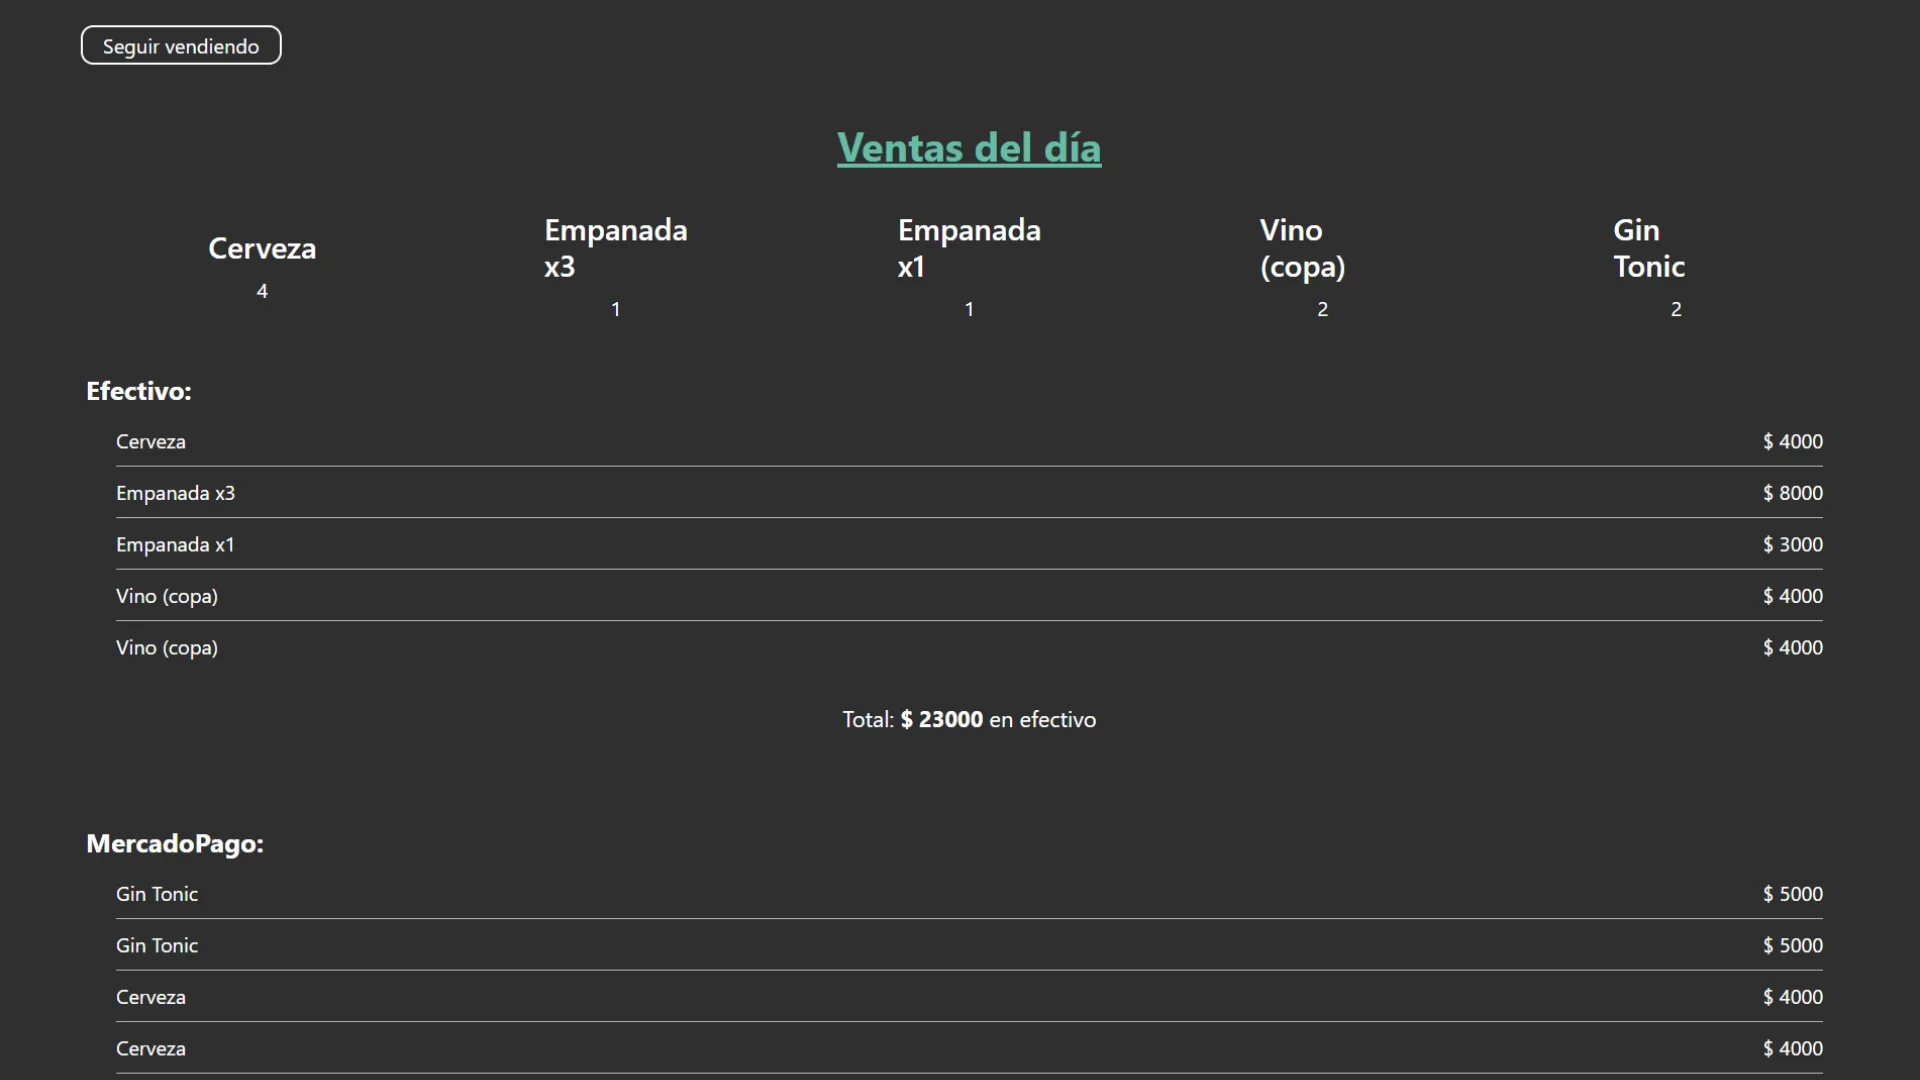
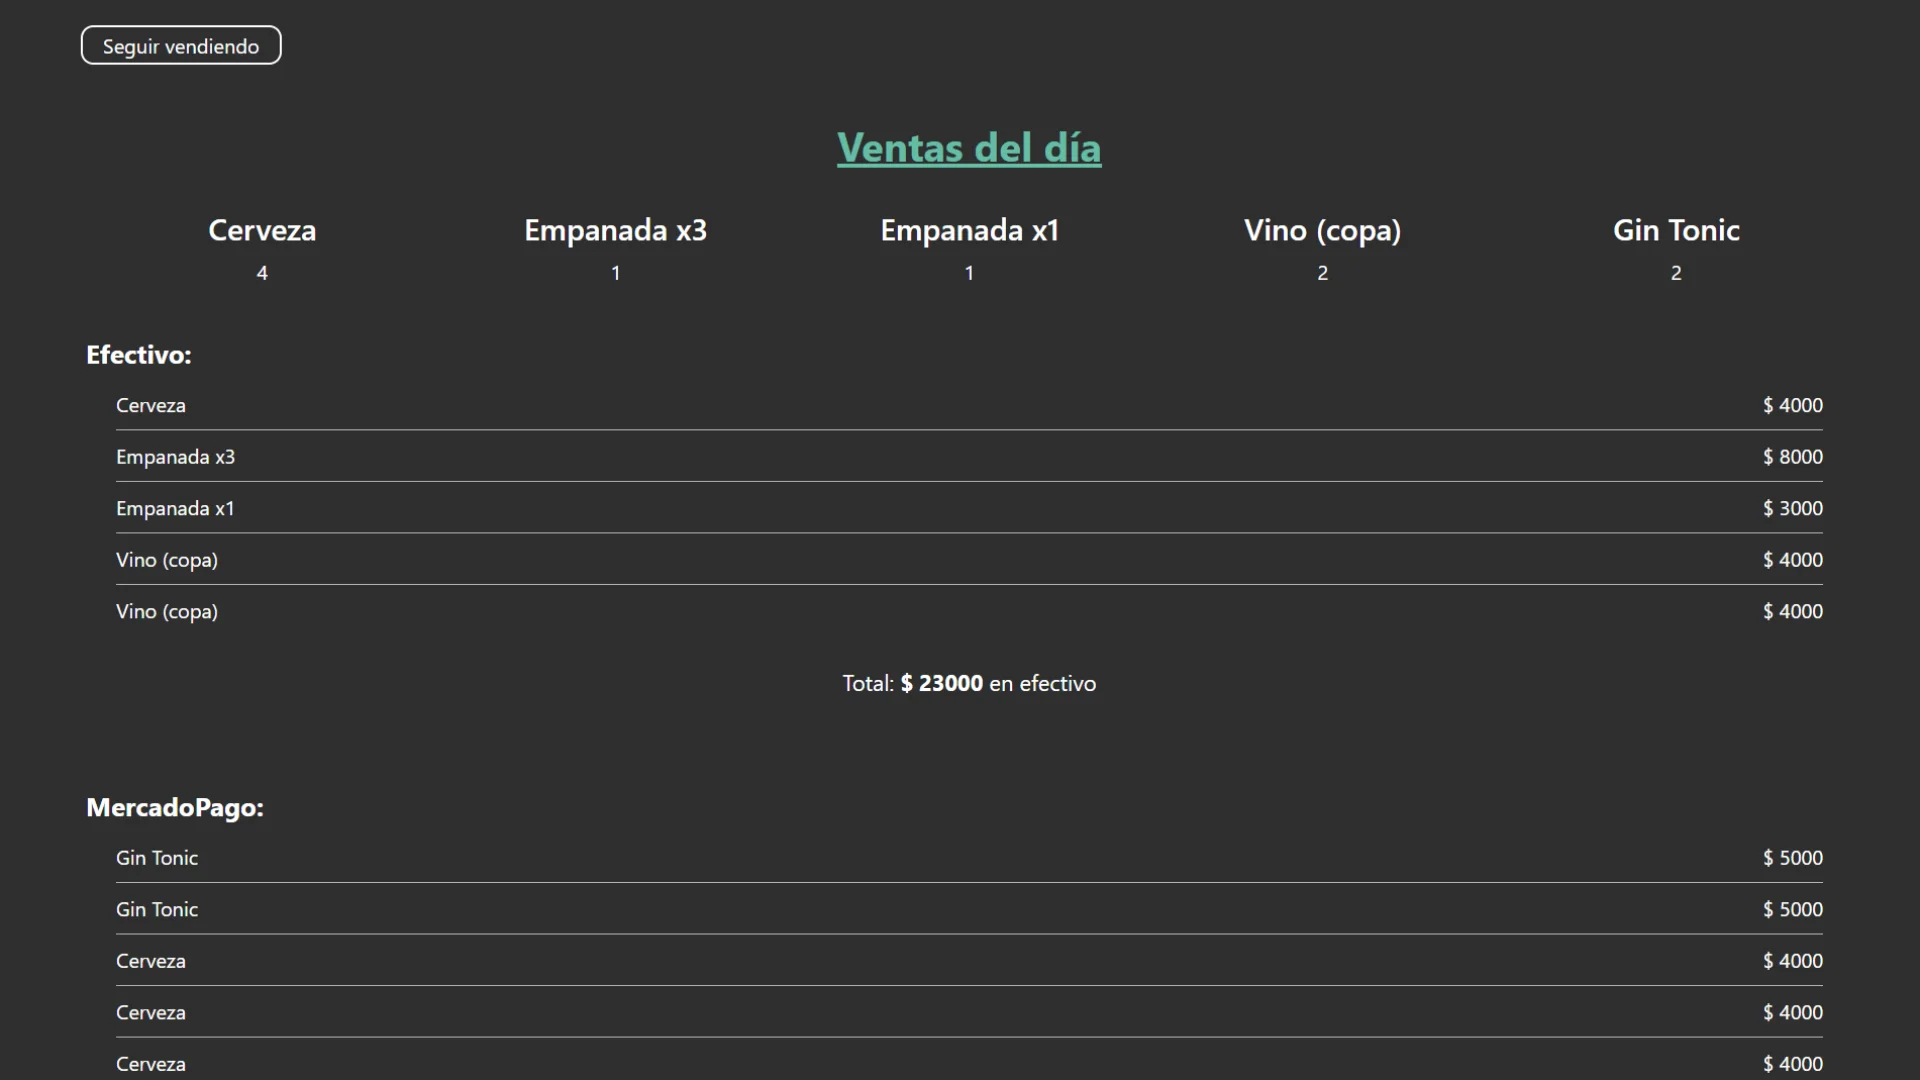
Responsive design fixes

diff --git a/src/components/portfolio/projects/BreakHouse.vue b/src/components/portfolio/projects/BreakHouse.vue
@@ -1,14 +1,59 @@
 <script>
 import { createHorizontalScroll } from '@/utils/horizontalScroll'
 
+import desktop1 from '@/img/projects/demos/break-house/break-house-1.webp'
+import desktop2 from '@/img/projects/demos/break-house/break-house-2.webp'
+import desktop3 from '@/img/projects/demos/break-house/break-house-3.webp'
+import desktop4 from '@/img/projects/demos/break-house/break-house-4.webp'
+import mobile1 from '@/img/projects/demos/break-house/mobile/break-house-mobile-1.webp'
+import mobile2 from '@/img/projects/demos/break-house/mobile/break-house-mobile-2.webp'
+import mobile3 from '@/img/projects/demos/break-house/mobile/break-house-mobile-3.webp'
+import mobile4 from '@/img/projects/demos/break-house/mobile/break-house-mobile-4.webp'
+
+const MOBILE_QUERY = '(max-width: 767.98px)'
+
 export default {
     name: 'BreakHouse',
+    data() {
+        return {
+            isMobile: window.matchMedia(MOBILE_QUERY).matches,
+            desktopImages: [
+                { src: desktop1, alt: 'Break House 1' },
+                { src: desktop2, alt: 'Break House 2' },
+                { src: desktop3, alt: 'Break House 3' },
+                { src: desktop4, alt: 'Break House 4' },
+            ],
+            mobileImages: [
+                { src: mobile1, alt: 'Break House 1' },
+                { src: mobile2, alt: 'Break House 2' },
+                { src: mobile3, alt: 'Break House 3' },
+                { src: mobile4, alt: 'Break House 4' },
+            ],
+        }
+    },
+    computed: {
+        demoImages() {
+            return this.isMobile ? this.mobileImages : this.desktopImages
+        },
+    },
     async mounted() {
-        createHorizontalScroll(this.$el)
+        this.horizontalScroll = await createHorizontalScroll(this.$el)
+        this.mediaQuery = window.matchMedia(MOBILE_QUERY)
+        this.mediaQuery.addEventListener('change', this.handleBreakpointChange)
     },
     beforeUnmount() {
         this.horizontalScroll?.tween.kill()
         this.horizontalScroll?.trigger.kill()
+        this.mediaQuery?.removeEventListener('change', this.handleBreakpointChange)
+    },
+    methods: {
+        async handleBreakpointChange(event) {
+            this.isMobile = event.matches
+            this.horizontalScroll?.tween.kill()
+            this.horizontalScroll?.trigger.kill()
+            await this.$nextTick()
+            this.horizontalScroll = await createHorizontalScroll(this.$el)
+        },
     },
 }
 </script>
@@ -17,12 +62,14 @@ export default {
     <div>
 
         <section>
-            <div class="d-flex align-items-center gap-2 gap-lg-4 mb-4 title-container">
-                <div>
-                    <img class="icon-img" src="@/img/projects/logo-break_house.svg" alt="Ícono de Break House">
+            <div class="row align-items-center gap-4 my-4 title-container">
+                <div class="col-12 col-md-4 d-flex align-items-center justify-content-center gap-2 gap-lg-4">
+                    <div>
+                        <img class="icon-img" src="@/img/projects/logo-break_house.svg" alt="Ícono de Break House">
+                    </div>
+                    <h2 class="mb-0">Break House</h2>
                 </div>
-                <h2>Break House</h2>
-                <div class="d-flex justify-content-center ps-0 ms-0 ps-lg-4 ms-lg-4">
+                <div class="col-12 col-sm-4 d-flex justify-content-center ps-0 ms-0 ps-lg-4 ms-lg-4">
                     <a class="text-center visit-website-button" href="https://final-ah-f76b6.web.app"
                         target="_blank">Sitio
                         web</a>
@@ -45,14 +92,8 @@ export default {
                 </div>
                 <div class="demo-images-container">
                     <div class="demo-images">
-                        <img class="img-fluid rounded-xl" src="@/img/projects/demos/break-house/break-house-1.webp"
-                            alt="Break House 1">
-                        <img class="img-fluid rounded-xl" src="@/img/projects/demos/break-house/break-house-2.webp"
-                            alt="Break House 2">
-                        <img class="img-fluid rounded-xl" src="@/img/projects/demos/break-house/break-house-3.webp"
-                            alt="Break House 3">
-                        <img class="img-fluid rounded-xl" src="@/img/projects/demos/break-house/break-house-4.webp"
-                            alt="Break House 4">
+                        <img v-for="(image, index) in demoImages" :key="index" class="img img-fluid rounded-xl"
+                            :src="image.src" :alt="image.alt">
                     </div>
                 </div>
                 <div class="w-100 d-flex justify-content-center mt-4">
@@ -94,11 +135,10 @@ section {
     flex-wrap: nowrap;
     height: fit-content;
     gap: 2em;
+    align-items: center;
 }
 
 .demo-images img {
-    box-shadow: 0px 0px 2px 2px rgba(0, 0, 0, 0.2);
-    border-radius: 1em;
     width: 90%;
     max-width: 100vw;
     max-height: 100vh;

diff --git a/src/components/portfolio/projects/BosqueSentidos.vue b/src/components/portfolio/projects/BosqueSentidos.vue
@@ -1,14 +1,59 @@
 <script>
 import { createHorizontalScroll } from '@/utils/horizontalScroll'
 
+import desktop1 from '@/img/projects/demos/bosque-sentidos/bosque-sentidos-1.webp'
+import desktop2 from '@/img/projects/demos/bosque-sentidos/bosque-sentidos-2.webp'
+import desktop3 from '@/img/projects/demos/bosque-sentidos/bosque-sentidos-3.webp'
+import desktop4 from '@/img/projects/demos/bosque-sentidos/bosque-sentidos-4.webp'
+import mobile1 from '@/img/projects/demos/bosque-sentidos/mobile/bosque-sentidos-mobile-1.webp'
+import mobile2 from '@/img/projects/demos/bosque-sentidos/mobile/bosque-sentidos-mobile-2.webp'
+import mobile3 from '@/img/projects/demos/bosque-sentidos/mobile/bosque-sentidos-mobile-3.webp'
+import mobile4 from '@/img/projects/demos/bosque-sentidos/mobile/bosque-sentidos-mobile-4.webp'
+
+const MOBILE_QUERY = '(max-width: 767.98px)'
+
 export default {
     name: 'BosqueSentidos',
+    data() {
+        return {
+            isMobile: window.matchMedia(MOBILE_QUERY).matches,
+            desktopImages: [
+                { src: desktop1, alt: 'Bosque de los Sentidos 1' },
+                { src: desktop2, alt: 'Bosque de los Sentidos 2' },
+                { src: desktop3, alt: 'Bosque de los Sentidos 3' },
+                { src: desktop4, alt: 'Bosque de los Sentidos 4' },
+            ],
+            mobileImages: [
+                { src: mobile1, alt: 'Bosque de los Sentidos 1' },
+                { src: mobile2, alt: 'Bosque de los Sentidos 2' },
+                { src: mobile3, alt: 'Bosque de los Sentidos 3' },
+                { src: mobile4, alt: 'Bosque de los Sentidos 4' },
+            ],
+        }
+    },
+    computed: {
+        demoImages() {
+            return this.isMobile ? this.mobileImages : this.desktopImages
+        },
+    },
     async mounted() {
-        createHorizontalScroll(this.$el)
+        this.horizontalScroll = await createHorizontalScroll(this.$el)
+        this.mediaQuery = window.matchMedia(MOBILE_QUERY)
+        this.mediaQuery.addEventListener('change', this.handleBreakpointChange)
     },
     beforeUnmount() {
         this.horizontalScroll?.tween.kill()
         this.horizontalScroll?.trigger.kill()
+        this.mediaQuery?.removeEventListener('change', this.handleBreakpointChange)
+    },
+    methods: {
+        async handleBreakpointChange(event) {
+            this.isMobile = event.matches
+            this.horizontalScroll?.tween.kill()
+            this.horizontalScroll?.trigger.kill()
+            await this.$nextTick()
+            this.horizontalScroll = await createHorizontalScroll(this.$el)
+        },
     },
 }
 </script>
@@ -16,12 +61,12 @@ export default {
 <template>
     <div>
         <section>
-            <div class="d-flex align-items-center gap-2 gap-lg-4 mb-4">
+            <div class="d-flex align-items-center gap-2 gap-lg-4 my-4">
                 <div>
                     <img class="icon-img" src="@/img/projects/logo-bosque_de_los_sentidos.svg"
                         alt="Ícono de Bosque de los Sentidos">
                 </div>
-                <h2>Bosque de los Sentidos</h2>
+                <h2 class="mb-0">Bosque de los Sentidos</h2>
             </div>
             <div>
                 <h3>Ludoteca de juegos inclusivos.</h3>
@@ -40,18 +85,8 @@ export default {
                 </div>
                 <div class="demo-images-container">
                     <div class="demo-images">
-                        <img class="img-fluid rounded-xl"
-                            src="@/img/projects/demos/bosque-sentidos/bosque-sentidos-1.webp"
-                            alt="Bosque de los Sentidos 1">
-                        <img class="img-fluid rounded-xl"
-                            src="@/img/projects/demos/bosque-sentidos/bosque-sentidos-2.webp"
-                            alt="Bosque de los Sentidos 2">
-                        <img class="img-fluid rounded-xl"
-                            src="@/img/projects/demos/bosque-sentidos/bosque-sentidos-3.webp"
-                            alt="Bosque de los Sentidos 3">
-                        <img class="img-fluid rounded-xl"
-                            src="@/img/projects/demos/bosque-sentidos/bosque-sentidos-4.webp"
-                            alt="Bosque de los Sentidos 4">
+                        <img v-for="(image, index) in demoImages" :key="index" class="img-fluid rounded-xl"
+                            :src="image.src" :alt="image.alt">
                     </div>
                 </div>
                 <p class="text-center mx-auto"><em>Es un proyecto en desarrollo, la integración de MercadoPago
@@ -99,8 +134,6 @@ section {
 }
 
 .demo-images img {
-    box-shadow: 0px 0px 2px 2px rgba(0, 0, 0, 0.2);
-    border-radius: 1em;
     width: 90%;
     max-width: 100vw;
     max-height: 100vh;

diff --git a/src/components/AppFooter.vue b/src/components/AppFooter.vue
@@ -6,8 +6,8 @@ export default {
 
 <template>
     <footer>
-        <div class="d-flex w-100 justify-content-around">
-            <div class="d-flex flex-column align-items-start my-4">
+        <div class="row justify-content-around">
+            <div class="col-12 col-md-4 col-lg-4 d-flex flex-column align-items-center my-4">
                 <h4>
                     Redes Sociales
                 </h4>
@@ -25,7 +25,7 @@ export default {
                     </li>
                 </ul>
             </div>
-            <div class="d-flex flex-column align-items-start my-4">
+            <div class="col-12 col-md-4 col-lg-4 d-flex flex-column align-items-center my-4">
                 <h4>Sitios Web</h4>
                 <ul class="list-unstyled">
                     <li><a href="https://esquina-cultural-production-l2ojal.laravel.cloud" class="link-footer"
@@ -40,7 +40,7 @@ export default {
                     </li>
                 </ul>
             </div>
-            <div class="d-flex flex-column align-items-start my-4">
+            <div class="col-12 col-md-4 col-lg-4 d-flex flex-column align-items-center my-4">
                 <h4>Repositorios</h4>
                 <ul class="list-unstyled">
                     <li><a href="https://github.com/chonachoadm/esquina-cultural" class="link-footer" target="_blank"
@@ -56,6 +56,8 @@ export default {
                     <li><a href="https://github.com/chonachoadm/comunidad_cocinera" class="link-footer" target="_blank"
                             rel="noopener noreferrer">Comunidad
                             Cocinera</a></li>
+                    <li><a href="https://github.com/chonachoadm/break-house" class="link-footer" target="_blank"
+                            rel="noopener noreferrer">Break House</a></li>
                 </ul>
             </div>
         </div>

diff --git a/src/components/portfolio/projects/EsquinaCultural.vue b/src/components/portfolio/projects/EsquinaCultural.vue
@@ -61,13 +61,15 @@ export default {
 <template>
     <div>
         <section>
-            <div class="d-flex align-items-center gap-2 gap-lg-4 mb-4">
-                <div>
-                    <img class="icon-img" src="@/img/projects/logo-esquina_cultural.svg"
-                        alt="Ícono de Esquina Cultural">
+            <div class="row align-items-center gap-4 my-4 title-container">
+                <div class="col-12 col-md-4 d-flex align-items-center justify-content-center gap-2 gap-lg-4">
+                    <div>
+                        <img class="icon-img" src="@/img/projects/logo-esquina_cultural.svg"
+                            alt="Ícono de Esquina Cultural">
+                    </div>
+                    <h2 class="mb-0">Esquina Cultural</h2>
                 </div>
-                <h2>Esquina Cultural</h2>
-                <div class="d-flex justify-content-center ps-0 ms-0 ps-lg-4 ms-lg-4">
+                <div class="col-12 col-sm-4 d-flex justify-content-center ps-0 ms-0 ps-lg-4 ms-lg-4">
                     <a class="text-center visit-website-button"
                         href="https://esquina-cultural-production-l2ojal.laravel.cloud" target="_blank">Sitio web</a>
                 </div>

diff --git a/src/components/portfolio/projects/CiaJeruncio.vue b/src/components/portfolio/projects/CiaJeruncio.vue
@@ -61,12 +61,14 @@ export default {
 <template>
     <div>
         <section>
-            <div class="d-flex align-items-center gap-2 gap-lg-4 mb-4">
-                <div>
-                    <img class="icon-img" src="@/img/projects/logo-cia_jeruncio.svg" alt="Ícono de Cía Jeruncio">
+            <div class="row align-items-center gap-4 my-4 title-container">
+                <div class="col-12 col-md-4 d-flex align-items-center justify-content-center gap-2 gap-lg-4">
+                    <div>
+                        <img class="icon-img" src="@/img/projects/logo-cia_jeruncio.svg" alt="Ícono de Cía Jeruncio">
+                    </div>
+                    <h2 class="mb-0">Cía. Jeruncio Clown</h2>
                 </div>
-                <h2>Cía. Jeruncio Clown</h2>
-                <div class="d-flex justify-content-center ps-0 ms-0 ps-lg-4 ms-lg-4">
+                <div class="col-12 col-sm-4 d-flex justify-content-center ps-0 ms-0 ps-lg-4 ms-lg-4">
                     <a class="text-center visit-website-button" href="https://ciajeruncio.com" target="_blank">Sitio
                         web</a>
                 </div>

diff --git a/src/components/portfolio/projects/CajaClub.vue b/src/components/portfolio/projects/CajaClub.vue
@@ -61,12 +61,14 @@ export default {
 <template>
     <div>
         <section>
-            <div class="d-flex align-items-center gap-2 gap-lg-4 mb-4">
-                <div>
-                    <img class="icon-img" src="@/img/projects/logo-caja_club.svg" alt="Ícono de CajaClub">
+            <div class="row align-items-center gap-4 my-4 title-container">
+                <div class="col-12 col-md-4 d-flex align-items-center justify-content-center gap-2 gap-lg-4">
+                    <div>
+                        <img class="icon-img" src="@/img/projects/logo-caja_club.svg" alt="Ícono de CajaClub">
+                    </div>
+                    <h2 class="mb-0">Caja Club</h2>
                 </div>
-                <h2>Caja Club</h2>
-                <div class="d-flex justify-content-center ps-0 ms-0 ps-lg-4 ms-lg-4">
+                <div class="col-12 col-sm-4 d-flex justify-content-center ps-0 ms-0 ps-lg-4 ms-lg-4">
                     <a class="text-center visit-website-button" href="https://cajaclub.vercel.app" target="_blank">Sitio
                         web</a>
                 </div>

diff --git a/src/components/portfolio/projects/ComunidadCocinera.vue b/src/components/portfolio/projects/ComunidadCocinera.vue
@@ -62,12 +62,12 @@ export default {
     <div>
 
         <section>
-            <div class="d-flex align-items-center gap-2 gap-lg-4 mb-4">
+            <div class="d-flex align-items-center gap-2 gap-lg-4 my-4">
                 <div>
                     <img class="icon-img" src="@/img/projects/logo-comunidad_cocinera.svg"
                         alt="Ícono de Comunidad Cocinera">
                 </div>
-                <h2>Comunidad Cocinera</h2>
+                <h2 class="mb-0">Comunidad Cocinera</h2>
             </div>
             <div>
                 <h3>Red Social para cocina amateur.</h3>

diff --git a/src/components/portfolio/AppProjects.vue b/src/components/portfolio/AppProjects.vue
@@ -35,7 +35,7 @@ export default {
                     </RouterLink>
                 </li>
                 <li>
-                    <RouterLink class="text-decoration-none text-dark fw-bold link" to="/portfolio/cia-jeruncio">Cía
+                    <RouterLink class="text-decoration-none text-dark fw-bold link" to="/portfolio/cia-jeruncio">Cía.
                         Jeruncio
                     </RouterLink>
                 </li>
